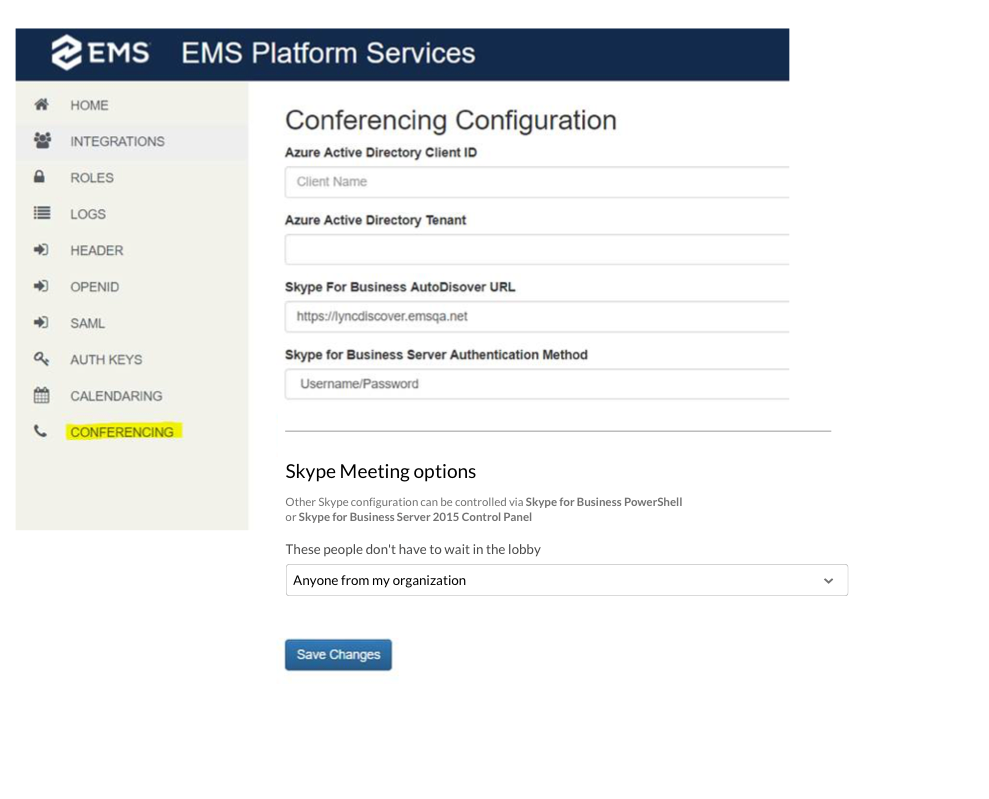
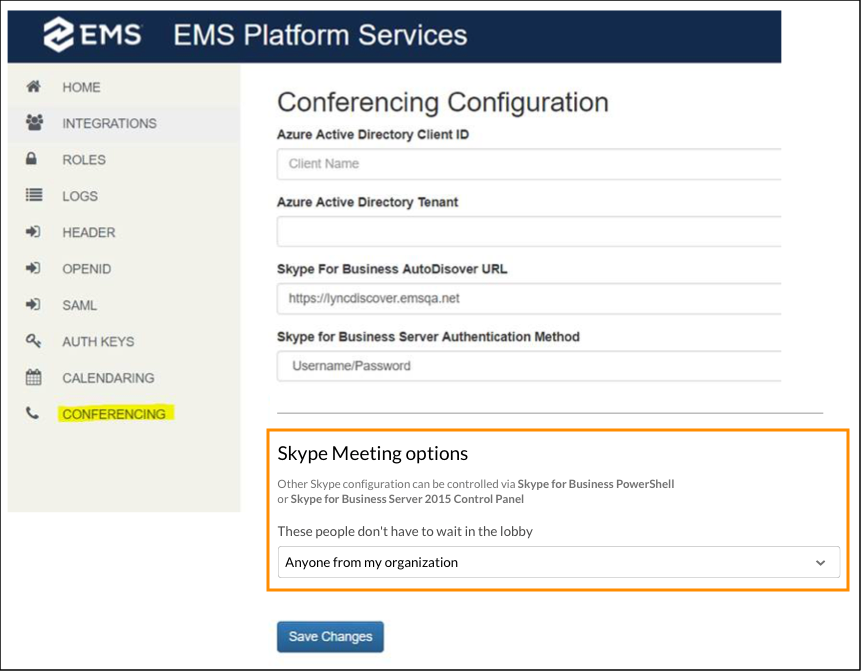
Updated for U32 release

diff --git a/Content/ReleaseNotes/Version44.1/Update32/EMSPlatformServices.htm b/Content/ReleaseNotes/Version44.1/Update32/EMSPlatformServices.htm
@@ -104,7 +104,7 @@ EMS&#160;Internal Reference #&#160;<a href="http://emstfs.dea.com:8080/tfs/EMS S
                     </td>
                     <td class="TableStyle-PatternedRows-BodyD-Regular-LightRows" style="text-align: left;">
                         <p class="RNTitle">Change to parameter SAML_SignAuthnRequests</p>
-                        <p class="RNBody">There has been a change to the parameter, SAML_SignAuthnRequests, which controls whether or not  SAML requests go to the IdP. This can now be controlled and modified from a toggle in the Admin UI, which reflects the parameter's current state.</p>
+                        <p class="RNBody">There has been a change to the parameter, SAML_SignAuthnRequests, which controls whether SAML requests go to the IdP. This can now be controlled and modified from a toggle in the Admin UI, which reflects the parameter's current state.</p>
                         <p class="RNRef">EMS&#160;Internal Reference #&#160;<a href="http://emstfs.dea.com:8080/tfs/EMS Suite/Ems/_workItems?id=38968&amp;_a=edit&amp;triage=true" title="For EMS Internal Use Only" alt="For EMS Internal Use Only" class="RNRefHyper">38968</a><br />(For EMS&#160;Internal Use Only)</p>
                     </td>
                 </tr>
@@ -114,7 +114,7 @@ EMS&#160;Internal Reference #&#160;<a href="http://emstfs.dea.com:8080/tfs/EMS S
                     </td>
                     <td class="TableStyle-PatternedRows-BodyD-Regular-DarkerRows" style="text-align: left;">
                         <p class="RNTitle">Added paging to GET - /kiosk/{id}/diagrams endpoint</p>
-                        <p class="RNBodyBeforeList">To implement lazy loading for room diagrams in EMS&#160;Kiosk App, paging has been added to GET /kiosk/{id}/diagrams endpoint <MadCap:annotation MadCap:createDate="2019-03-08T08:46:56.2134678-07:00" MadCap:creator="Megan.Laub" MadCap:initials="ME" MadCap:comment="Should the acceptance criteria in the list below be included?" MadCap:editor="Megan.Laub" MadCap:editDate="2019-03-08T08:47:28.3320118-07:00">as follows</MadCap:annotation>:&#160;</p>
+                        <p class="RNBodyBeforeList">To implement lazy loading for room diagrams in EMS&#160;Kiosk App, paging has been added to the GET /kiosk/{id}/diagrams endpoint as follows:&#160;</p>
                         <ul class="RN-unorder-list">
                             <li>added page Query String parameter with default of 1</li>
                             <li>added pageSize Query String parameter with default of 5</li>
@@ -134,44 +134,29 @@ EMS&#160;Internal Reference #&#160;<a href="http://emstfs.dea.com:8080/tfs/EMS S
                     </td>
                 </tr>
                 <tr class="TableStyle-PatternedRows-Body-DarkerRows">
-                    <td class="TableStyle-PatternedRows-BodyE-Regular-DarkerRows">
+                    <td class="TableStyle-PatternedRows-BodyB-Regular-DarkerRows">
                         <p class="RNArea">Skype for Business</p>
                     </td>
-                    <td class="TableStyle-PatternedRows-BodyD-Regular-DarkerRows" style="text-align: left;">
-                        <p class="RNTitle">Parameter to set Skype for Business meeting option </p>
-                        <p>Default meetings options for skype link created through EMS applications  were implemented in 41798. As a result following skype meeting options can be set via the API and can be configured through Skype Control panel /PowerShell</p>
-                        <p>1.      Callers get in directly</p>
-                        <p>2.      Who’s a presenter</p>
-                        <p>&#160;</p>
-                        <p>Problem statement :   We couldn’t find a way to configure the option - “These people don’t have to wait in the lobby” in Skype control panel and PowerShell. Per the API documentation, it uses the default value configured by the admin.  KPMG Aus reported that there is no way to configure this option.</p>
-                        <p>Default value set by API for the setting is "Anyone" but the customer's preferred setting is " Same enterprise" to prevent security issues.</p>
-                        <p>Wire up the newly added VEMS_Conferencing_Lobby_Wait_Options parameter, and demonstrate the following settings work as expected:</p>
-                        <p>Only me, the meeting organizer</p>
-                        <p>People I invite from my company</p>
-                        <p>Anyone from my organization</p>
-                        <p>Anyone ( no restrictions)</p>
-                        <p class="RNRef">EMS&#160;Internal Reference #&#160;<a href="https://emstfs.emssoftware.com/tfs/ems suite/Ems/_workItems?id=43684&amp;_a=edit&amp;triage=false" title="For EMS Internal Use Only" alt="For EMS Internal Use Only" class="RNRefHyper">43684</a><br />(For EMS&#160;Internal Use Only)</p>
-                    </td>
-                </tr>
-                <tr class="TableStyle-PatternedRows-Body-LightRows">
-                    <td class="TableStyle-PatternedRows-BodyB-Regular-LightRows">
-                        <p class="RNArea">Skype for Business</p>
-                    </td>
-                    <td class="TableStyle-PatternedRows-BodyA-Regular-LightRows" style="text-align: left;">
-                        <p class="RNTitle">Skype for Business Meeting Option Parameter Added</p>
-                        <p class="RNBody">A new meeting option parameter has been added to the EMS&#160;Platform Services Admin UI under Skype for Business in the <span class="bold">Conferencing </span>tab. The he new parameter settings </p>
-                        <p>This setting should be added to Conferencing tab. Please review the attached design.</p>
-                        <p>Section name : Skype meeting options</p>
-                        <p>Setting name  : "These people don't have to wait in the lobby "</p>
-                        <p>Field Type : Dropdown</p>
-                        <p>Allowed values</p>
-                        <p>Only me, the meeting organizer</p>
-                        <p>People I invite from my company</p>
-                        <p>Anyone from my organization</p>
-                        <p>Anyone ( no restrictions)</p>
-                        <p>Default value : Anyone from my organization</p>
-                        <p>Additional message indicating that other meeting options can be set via skype for business server 2015 control panel or Skype powershell ( refer to attached design)</p>
-                        <p class="RNRef">EMS&#160;Internal Reference #&#160;<a href="http://emstfs.dea.com:8080/tfs/EMS Suite/Ems/_workItems?id=42219&amp;_a=edit&amp;triage=true" title="For EMS Internal Use Only" alt="For EMS Internal Use Only" class="RNRefHyper">42219</a><br />(For EMS&#160;Internal Use Only)</p>
+                    <td class="TableStyle-PatternedRows-BodyA-Regular-DarkerRows" style="text-align: left;">
+                        <p class="RNTitle">
+                            <MadCap:annotation MadCap:createDate="2019-03-08T09:57:38.4874994-07:00" MadCap:creator="Megan.Laub" MadCap:initials="ME" MadCap:comment="Does this information cover 43684, or do we need to provide more info?" MadCap:editor="Megan.Laub" MadCap:editDate="2019-03-08T09:59:39.5581603-07:00">Skype</MadCap:annotation> for Business Meeting Option Parameter Added</p>
+                        <p class="RNBodyBeforeList">A new meeting option parameter has been added to the EMS&#160;Platform Services Admin&#160;UI under Skype for Business on the <span class="bold">Conferencing </span>tab. The parameter <span class="bold">These people don't have to wait in the lobby</span> is a drop-down field with the following values: </p>
+                        <ul class="RN-unorder-list">
+                            <li><span class="bold">Only me, the meeting organizer</span>
+                            </li>
+                            <li><span class="bold">People I invite from my company</span>
+                            </li>
+                            <li><span class="bold">Anyone from my organization</span>
+                            </li>
+                            <li><span class="bold">Anyone (no restrictions</span>
+                            </li>
+                        </ul>
+                        <p class="RNBody">
+                            <MadCap:annotation MadCap:createDate="2019-03-08T09:59:45.2059163-07:00" MadCap:creator="Megan.Laub" MadCap:initials="ME" MadCap:comment="Need to add this information to the core documentation." MadCap:editor="Megan.Laub" MadCap:editDate="2019-03-08T09:59:55.7019106-07:00">The</MadCap:annotation> default value is <span class="bold">Anyone from my organization</span>.</p>
+                        <p class="RNBody">
+                            <img src="../../../EMSPlatformServices/Images/PlatformSettingAdminUI_TFS42219.png" style="width: 656px;height: 530px;" />
+                        </p>
+                        <p class="RNRef">EMS&#160;Internal Reference #&#160;<a href="http://emstfs.dea.com:8080/tfs/EMS Suite/Ems/_workItems?id=42219&amp;_a=edit&amp;triage=true" title="For EMS Internal Use Only" alt="For EMS Internal Use Only" class="RNRefHyper">42219</a> and <a href="https://emstfs.emssoftware.com/tfs/ems suite/Ems/_workItems?id=43684&amp;_a=edit&amp;triage=false" title="For EMS Internal Use Only" alt="For EMS Internal Use Only" class="RNRefHyper">43684</a><br />(For EMS&#160;Internal Use Only)</p>
                     </td>
                 </tr>
             </tbody>
@@ -192,33 +177,61 @@ EMS&#160;Internal Reference #&#160;<a href="http://emstfs.dea.com:8080/tfs/EMS S
             </thead>
             <tbody>
                 <tr class="TableStyle-PatternedRows-Body-LightRows">
-                    <td class="TableStyle-PatternedRows-BodyE-Regular-LightRows">&#160;</td>
+                    <td class="TableStyle-PatternedRows-BodyE-Regular-LightRows">
+                        <p class="RNArea">API Calls</p>
+                    </td>
                     <td class="TableStyle-PatternedRows-BodyD-Regular-LightRows" style="text-align: left;">
-                        <p class="RNTitle">Group Email Address Incorrect When Client Token Used</p>
+                        <p class="RNTitle">Group email address incorrect when client token was used</p>
                         <p class="RNBody">When making the POST /bookings/actions/search REST call, the same email address in the Group model was listed under all Groups that were returned with reservations (if a Client Token was used for the x-ems-api token).</p>
-                        <p class="RNBody"><b>Fix</b>:&#160;Modified functionality so that the correct Group Email Address is returned, as an /authentication token returns the Group model data.</p>
+                        <p class="RNBody"><b>Fix:</b>&#160;Modified functionality so that the correct Group Email Address is returned, as an /authentication token returns the Group model data.</p>
                         <p class="RNRef">EMS&#160;Internal Reference #&#160;<a href="https://emstfs.emssoftware.com/tfs/ems suite/Ems/_workItems?id=40001&amp;_a=edit&amp;triage=true" title="For EMS Internal Use Only" alt="For EMS Internal Use Only" class="RNRefHyper">40001</a><br />(For EMS&#160;Internal Use Only)</p>
                     </td>
                 </tr>
                 <tr class="TableStyle-PatternedRows-Body-DarkerRows">
-                    <td class="TableStyle-PatternedRows-BodyE-Regular-DarkerRows">&#160;</td>
+                    <td class="TableStyle-PatternedRows-BodyE-Regular-DarkerRows">
+                        <p class="RNArea">Parameters</p>
+                    </td>
                     <td class="TableStyle-PatternedRows-BodyD-Regular-DarkerRows" style="text-align: left;">
-                        <p class="RNTitle">Reservation Not Inserted When AltTempContact Parameter Exceeded 50 Characters</p>
+                        <p class="RNTitle">Reservation not inserted when AltTempContact parameter exceeded 50 characters</p>
                         <p class="RNBody">When a value for altTempContact exceeded 50 characters, a reservation appeared to be created but was in fact an orphaned booking. </p>
-                        <p class="RNBody"><b>Fix</b>:&#160;Modified functionality so that the parameter field value is validated  prior to insertion and an error is returned if the values do not meet the requirements.</p>
+                        <p class="RNBody"><b>Fix:</b>&#160;Modified functionality so that the parameter field value is validated  prior to insertion and an error is returned if the values do not meet the requirements.</p>
                         <p class="RNRef">EMS&#160;Internal Reference #&#160;<a href="https://emstfs.emssoftware.com/tfs/ems suite/Ems/_workItems?id=41134&amp;_a=edit&amp;triage=true" title="For EMS Internal Use Only" alt="For EMS Internal Use Only" class="RNRefHyper">41134</a><br />(For EMS&#160;Internal Use Only)</p>
                     </td>
                 </tr>
                 <tr class="TableStyle-PatternedRows-Body-LightRows">
-                    <td class="TableStyle-PatternedRows-BodyB-Regular-LightRows">
+                    <td class="TableStyle-PatternedRows-BodyE-Regular-LightRows">
                         <p class="RNArea">SAML&#160;Authentication</p>
                         <p>&#160;</p>
                     </td>
-                    <td class="TableStyle-PatternedRows-BodyA-Regular-LightRows" style="text-align: left;">
-                        <p class="RNTitle">Signature Validation Failing (SAML)</p>
-                        <p class="RNBody">Some customers' SAML configuration was not allowing SAML Responses to validate in the EMS&#160;Platform (using a Shibboleth IdP).</p>
-                        <p class="RNBody"><b>Fix</b>:&#160;Modified functionality so that signatures can be validated. </p>
+                    <td class="TableStyle-PatternedRows-BodyD-Regular-LightRows" style="text-align: left;">
+                        <p class="RNTitle">Signature validation failing (SAML)</p>
+                        <p class="RNBody">Some customers' SAML configurations were not allowing SAML Responses to validate in the EMS&#160;Platform (using a Shibboleth IdP).</p>
+                        <p class="RNBody"><b>Fix:</b>&#160;Modified functionality so that signatures can be validated. </p>
                         <p class="RNRef">EMS&#160;Internal Reference #&#160;<a href="https://emstfs.emssoftware.com/tfs/ems suite/Ems/_workItems?id=41651&amp;_a=edit&amp;triage=true" title="For EMS Internal Use Only" alt="For EMS Internal Use Only" class="RNRefHyper">41651</a><br />(For EMS&#160;Internal Use Only)</p>
+                    </td>
+                </tr>
+                <tr class="TableStyle-PatternedRows-Body-DarkerRows">
+                    <td class="TableStyle-PatternedRows-BodyE-Regular-DarkerRows">
+                        <p class="RNArea">API</p>
+                        <p>&#160;</p>
+                    </td>
+                    <td class="TableStyle-PatternedRows-BodyD-Regular-DarkerRows" style="text-align: left;">
+                        <p class="RNTitle">Request Body was missing for Get UDF Values for Multiple Rooms</p>
+                        <p class="RNBody">The <span class="bold">Get UDF Values for Multiple Rooms</span> call did not include the Request Body section with the RoomIds array variable. The RoomIds array is a required field in the body for the <span class="bold">Get UDF Values for Multiple Rooms</span> call. </p>
+                        <p class="RNBody"><b>Fix:</b>&#160;Added the Request Body section to the <span class="bold">Get UDF Values for Multiple Rooms</span> call.</p>
+                        <p class="RNRef">EMS&#160;Internal Reference #&#160;<a href="https://emstfs.emssoftware.com/tfs/ems suite/Ems/_workItems?id=43077&amp;_a=edit&amp;triage=true" title="For EMS Internal Use Only" alt="For EMS Internal Use Only" class="RNRefHyper">43077</a><br />(For EMS&#160;Internal Use Only)</p>
+                    </td>
+                </tr>
+                <tr class="TableStyle-PatternedRows-Body-LightRows">
+                    <td class="TableStyle-PatternedRows-BodyB-Regular-LightRows">
+                        <p class="RNArea">API</p>
+                        <p>&#160;</p>
+                    </td>
+                    <td class="TableStyle-PatternedRows-BodyA-Regular-LightRows" style="text-align: left;">
+                        <p class="RNTitle">Deleted Remove Delegates Response</p>
+                        <p class="RNBody">The <span class="bold">Remove Delegates</span> call requires a response in an array; however, when calling <span class="bold">Remove Delegates</span>, the response received was a single message not in an array. This issue was causing some customers' code to fail. </p>
+                        <p class="RNBody"><b>Fix:</b>&#160;<MadCap:annotation MadCap:createDate="2019-03-08T10:59:04.3254010-07:00" MadCap:creator="Megan.Laub" MadCap:initials="ME" MadCap:comment="Or should this read &quot;Modified functionality so that when calling Remove Delegates, the response received is an array&quot;?" MadCap:editor="Megan.Laub" MadCap:editDate="2019-03-08T10:59:05.3788000-07:00">Modified functionality</MadCap:annotation> so that the <span class="bold">Remove Delegates</span> call no longer requires a response in an array</p>
+                        <p class="RNRef">EMS&#160;Internal Reference #&#160;<a href="https://emstfs.emssoftware.com/tfs/ems suite/Ems/_workItems?id=43115&amp;_a=edit&amp;triage=false" title="For EMS Internal Use Only" alt="For EMS Internal Use Only" class="RNRefHyper">43115</a><br />(For EMS&#160;Internal Use Only)</p>
                     </td>
                 </tr>
             </tbody>
